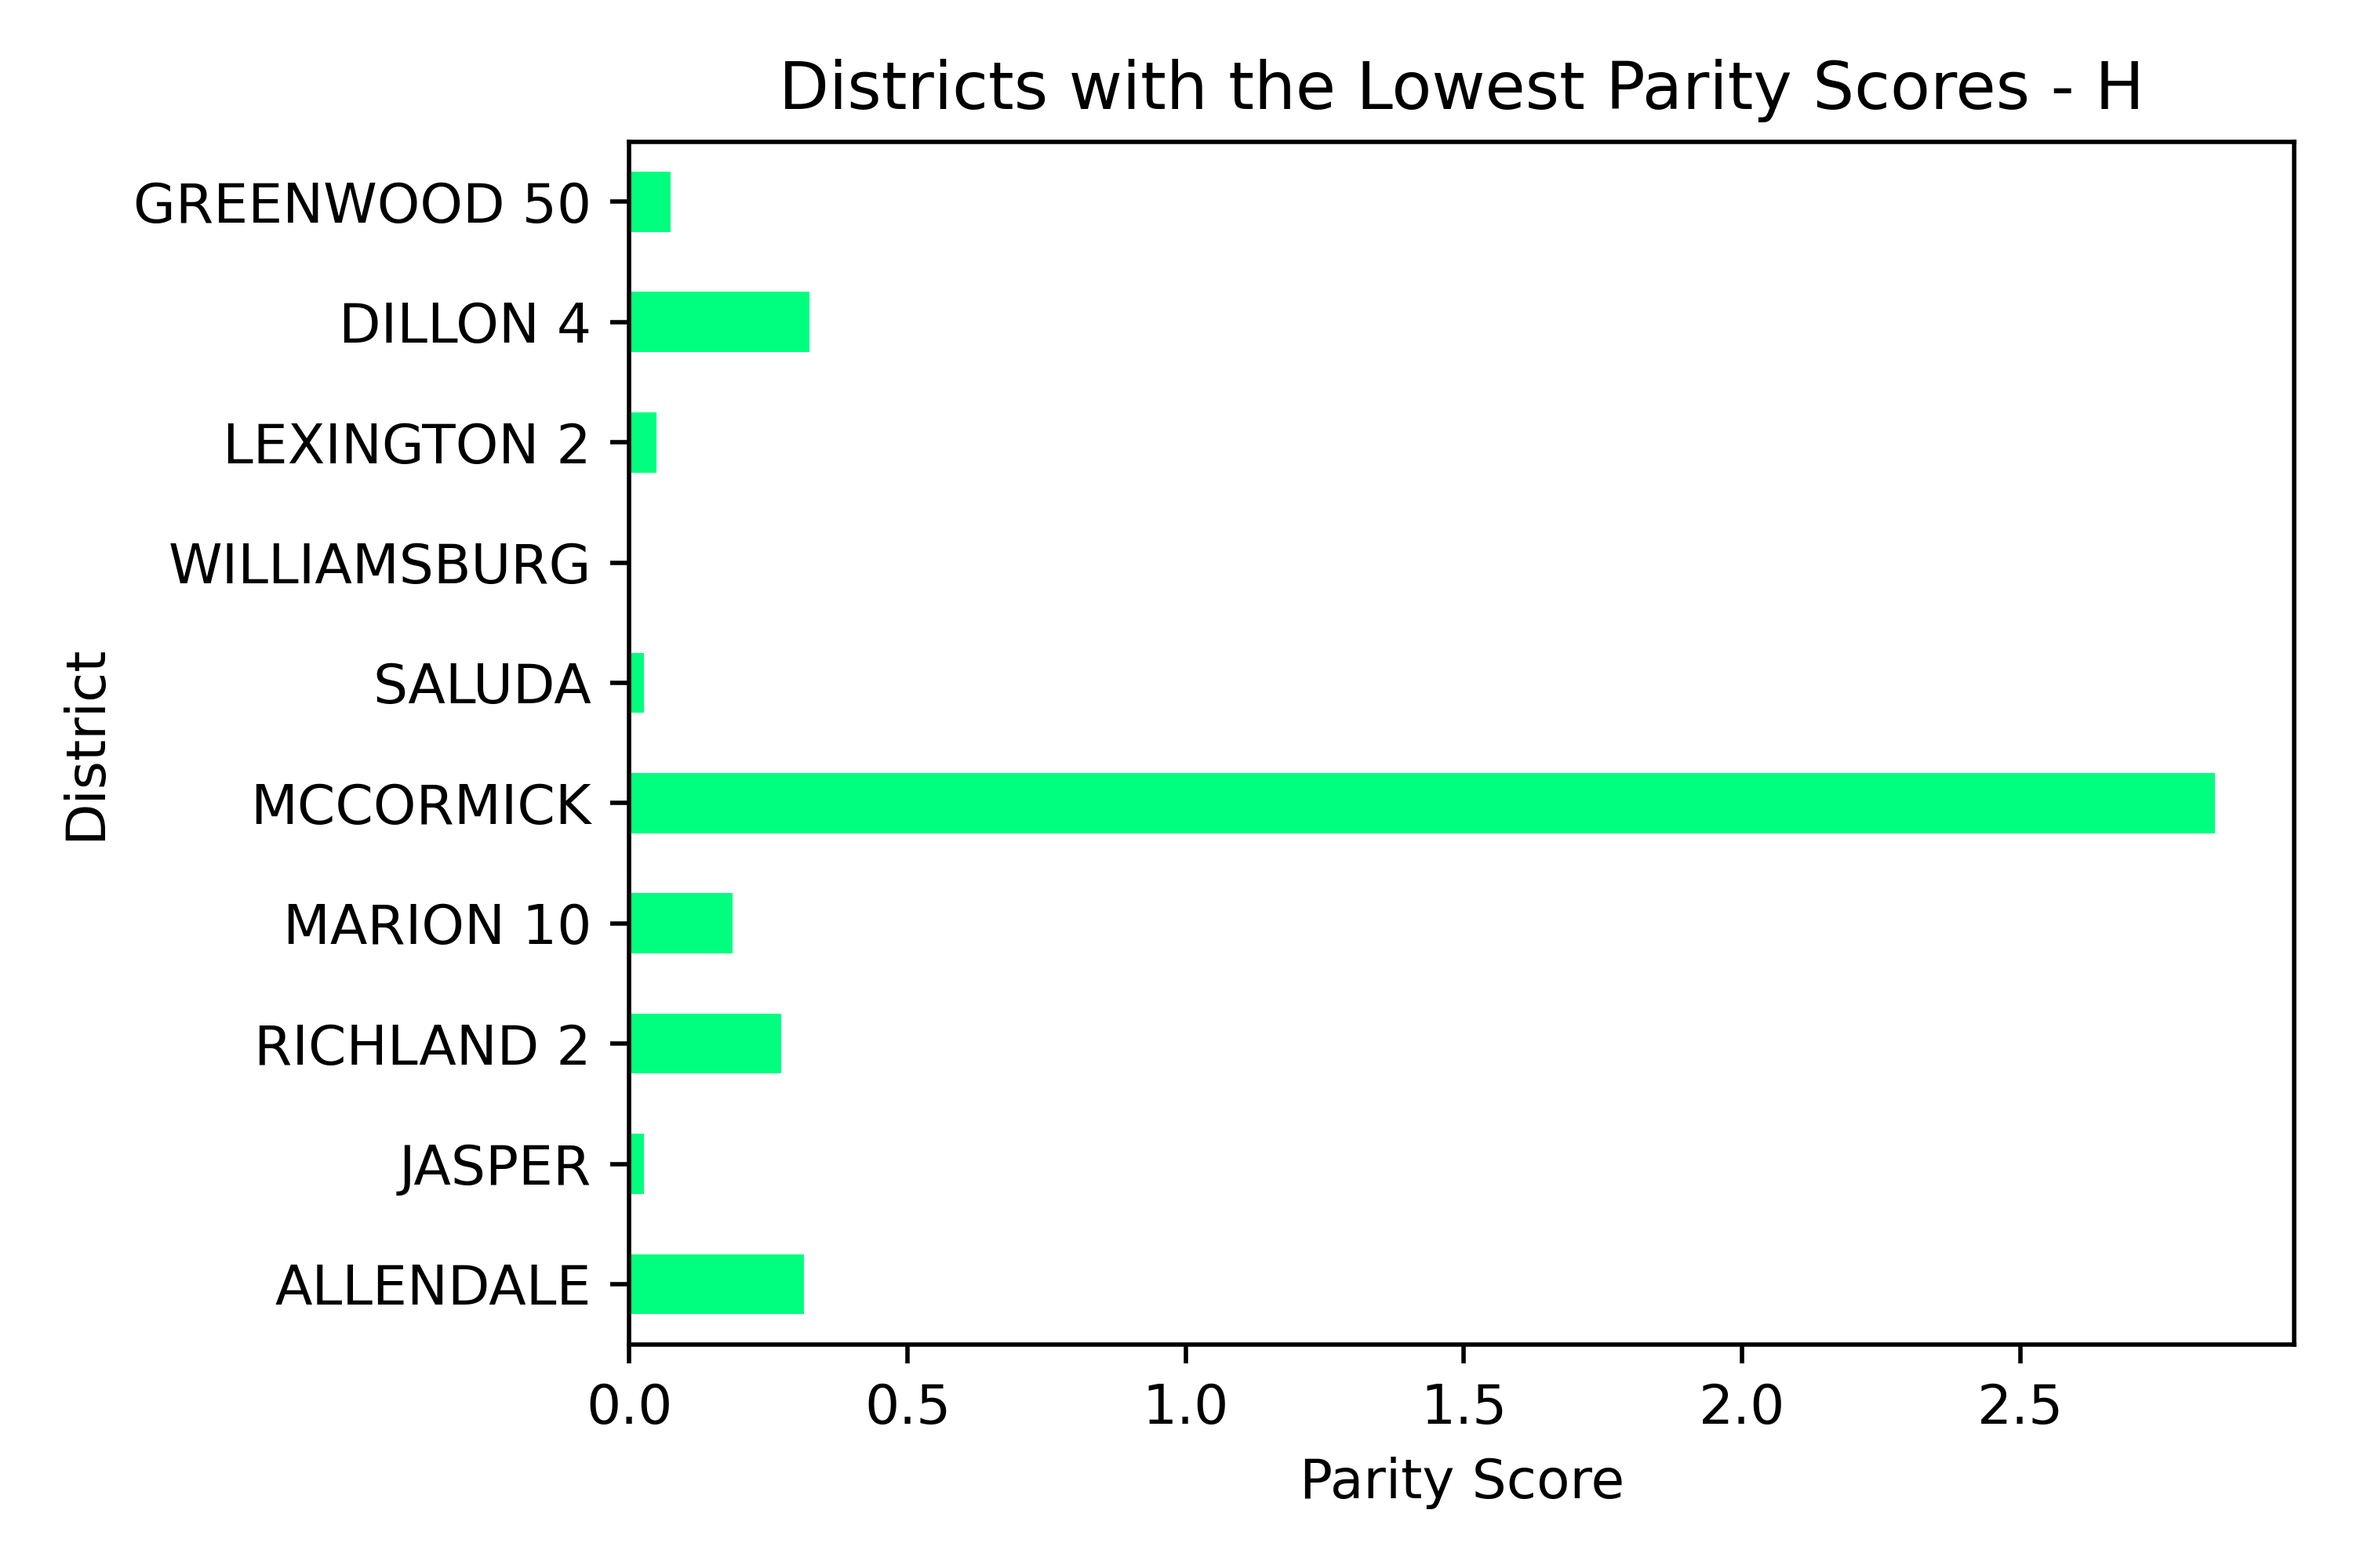
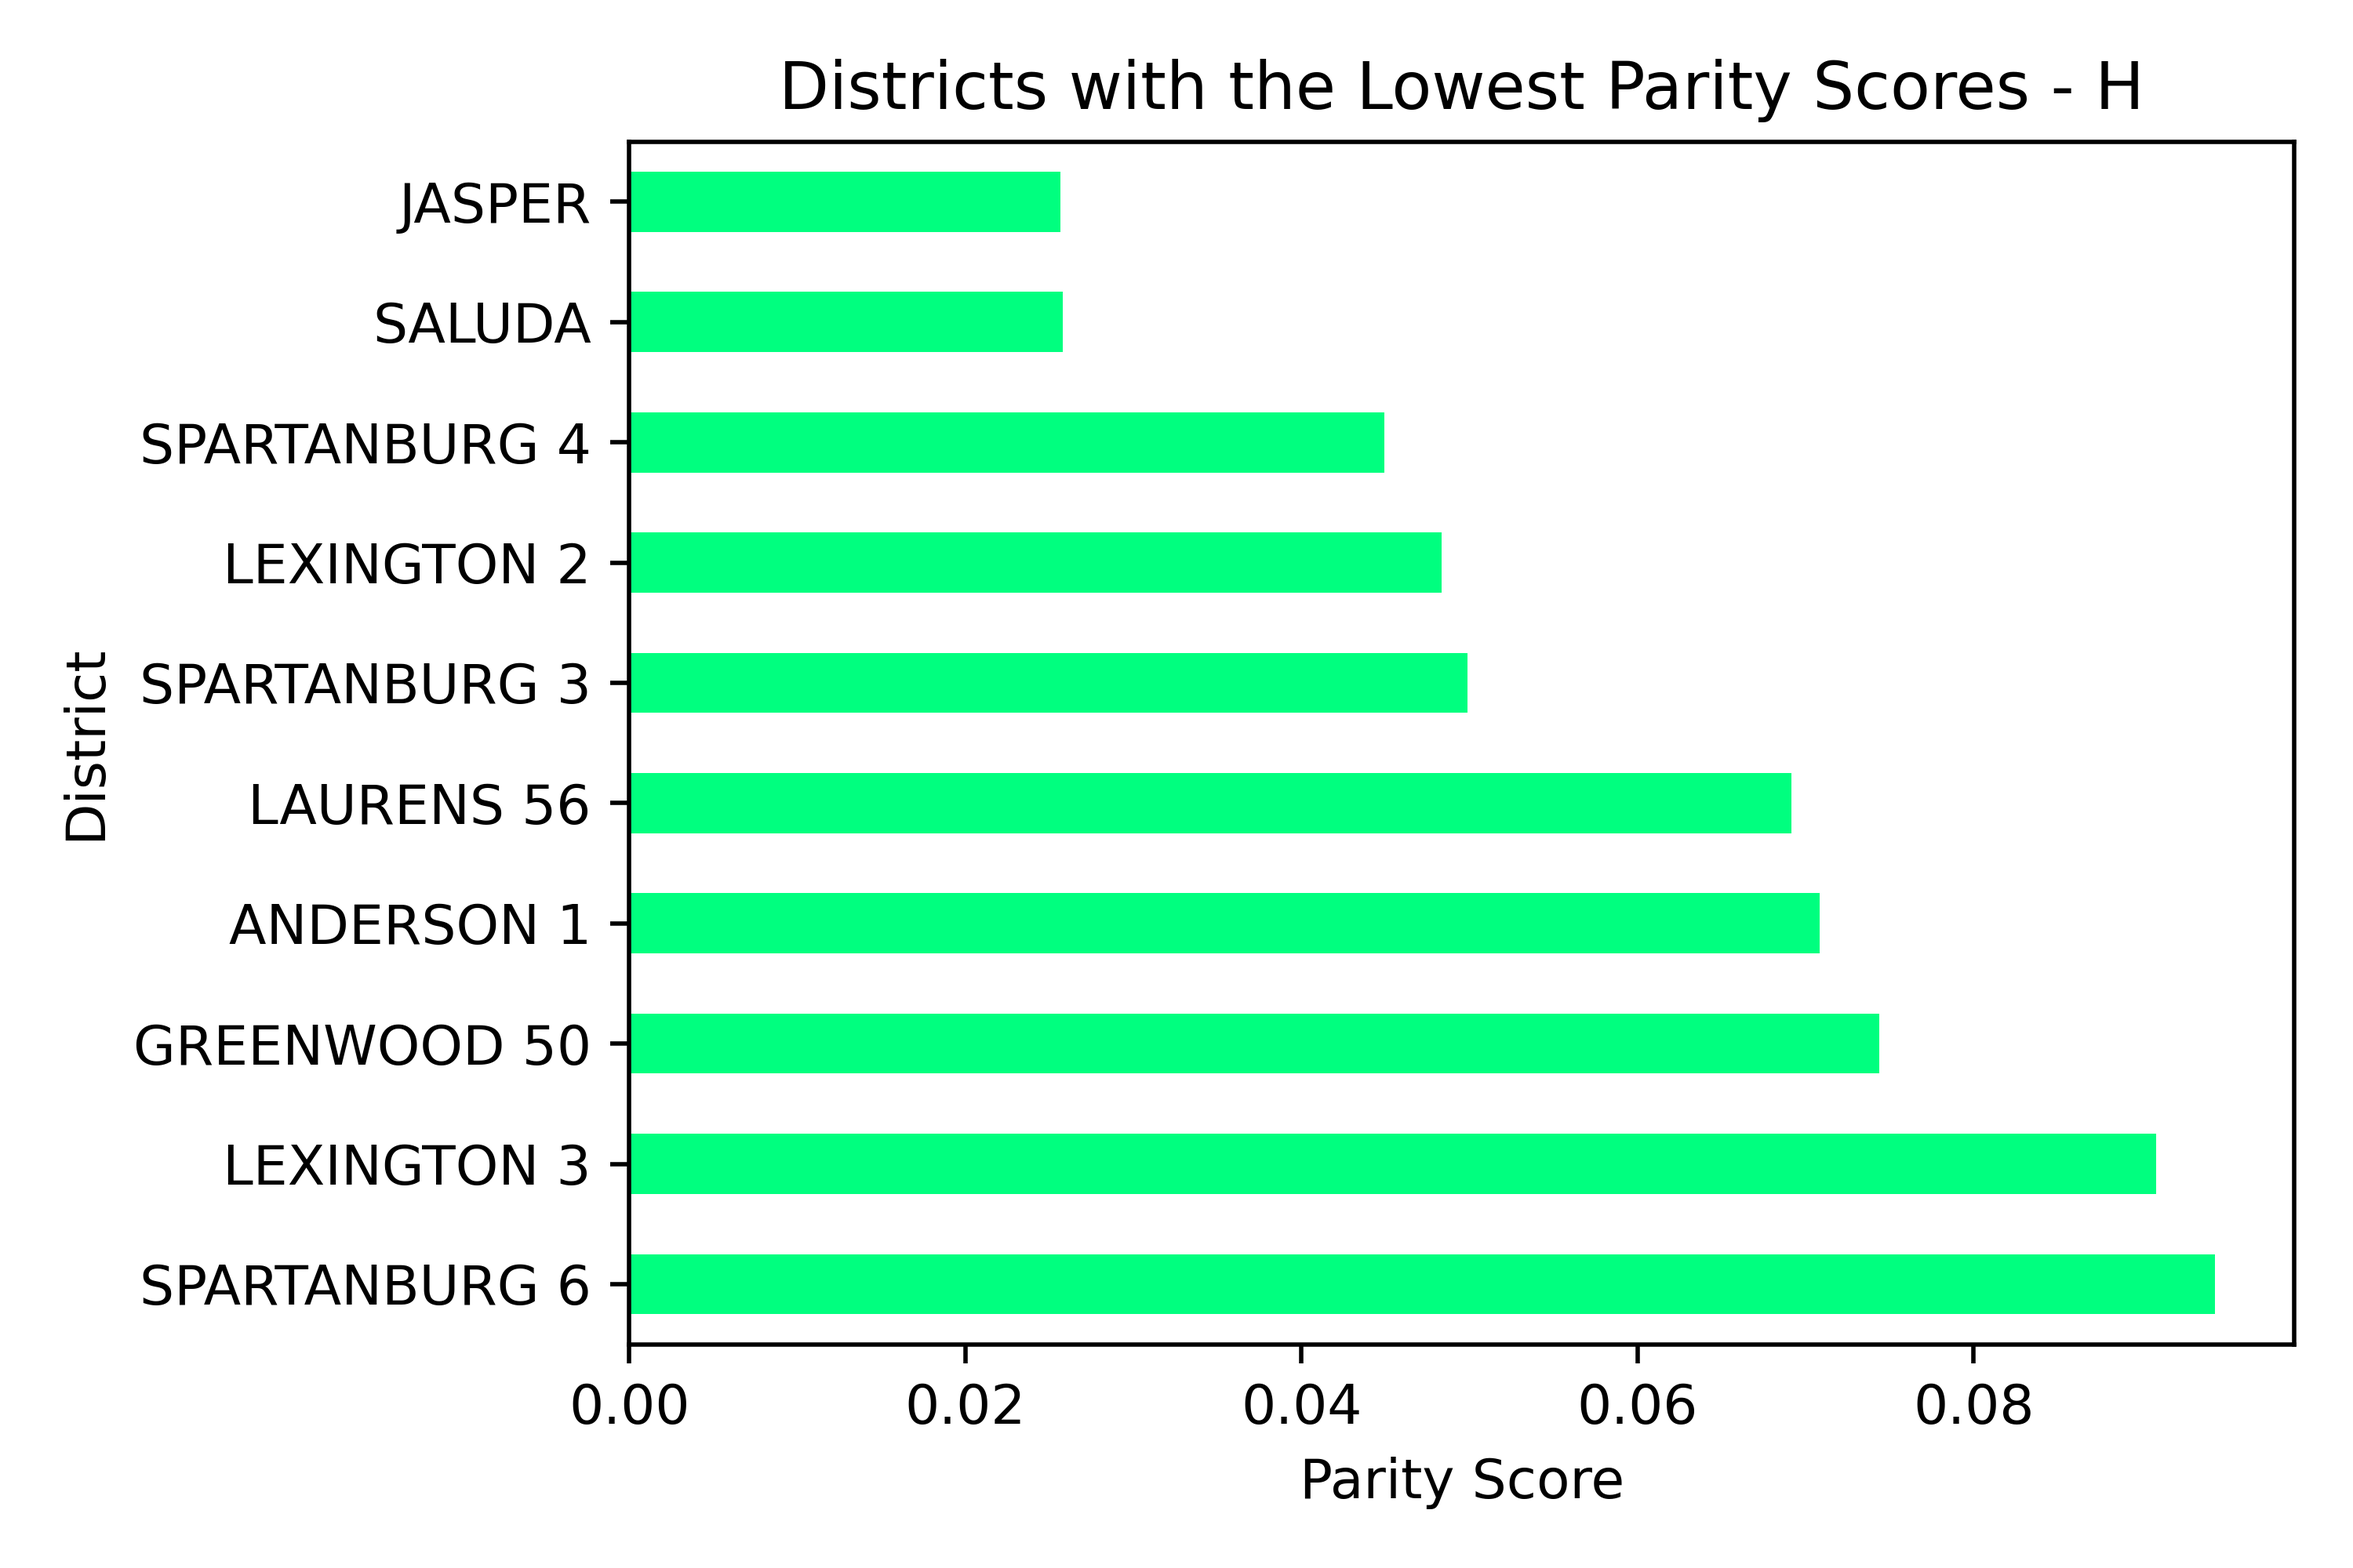
Had a little problem but I solved it

diff --git a/Visualization Scripts/graphs.py b/Visualization Scripts/graphs.py
@@ -96,17 +96,19 @@ plt.title('Districts with the Lowest Parity Scores - B')
 plt.tight_layout()
 plt.legend().remove()
 plt.savefig('LparityB.png')
-
+#%%
 # Bar - Top 10 Districts with the Lowest Teacher-Student parity (Hispanic)
-lowest_parity_h = final_parity_h.tail(10)
-highest_parity_w.set_index('District').plot(kind='barh', y = 'T-S Parity (H)')
+# Original 10 had parity scores of 0, meaning they have 0 hispanic teachers
+lowest_parity_h = final_parity_h[final_parity_h != 0].dropna().tail(10)
+# Original 10 had parity scores of 0, meaning they have 0 hispanic teachers, skipped these to get to the 10 lowest with values bigger than 0
+lowest_parity_h.set_index('District').plot(kind='barh', y = 'T-S Parity (H)')
 plt.xlabel('Parity Score')
 plt.ylabel('District')
 plt.title('Districts with the Lowest Parity Scores - H')
 plt.tight_layout()
 plt.legend().remove()
 plt.savefig('LparityH.png')
-
+#%%
 # Sorting graduation rates in descending order
 final_grad_w = final_2023.sort_values(by='Graduation Rate - W', ascending = False)
 final_grad_b = final_2023.sort_values(by='Graduation Rate - B', ascending = False)
